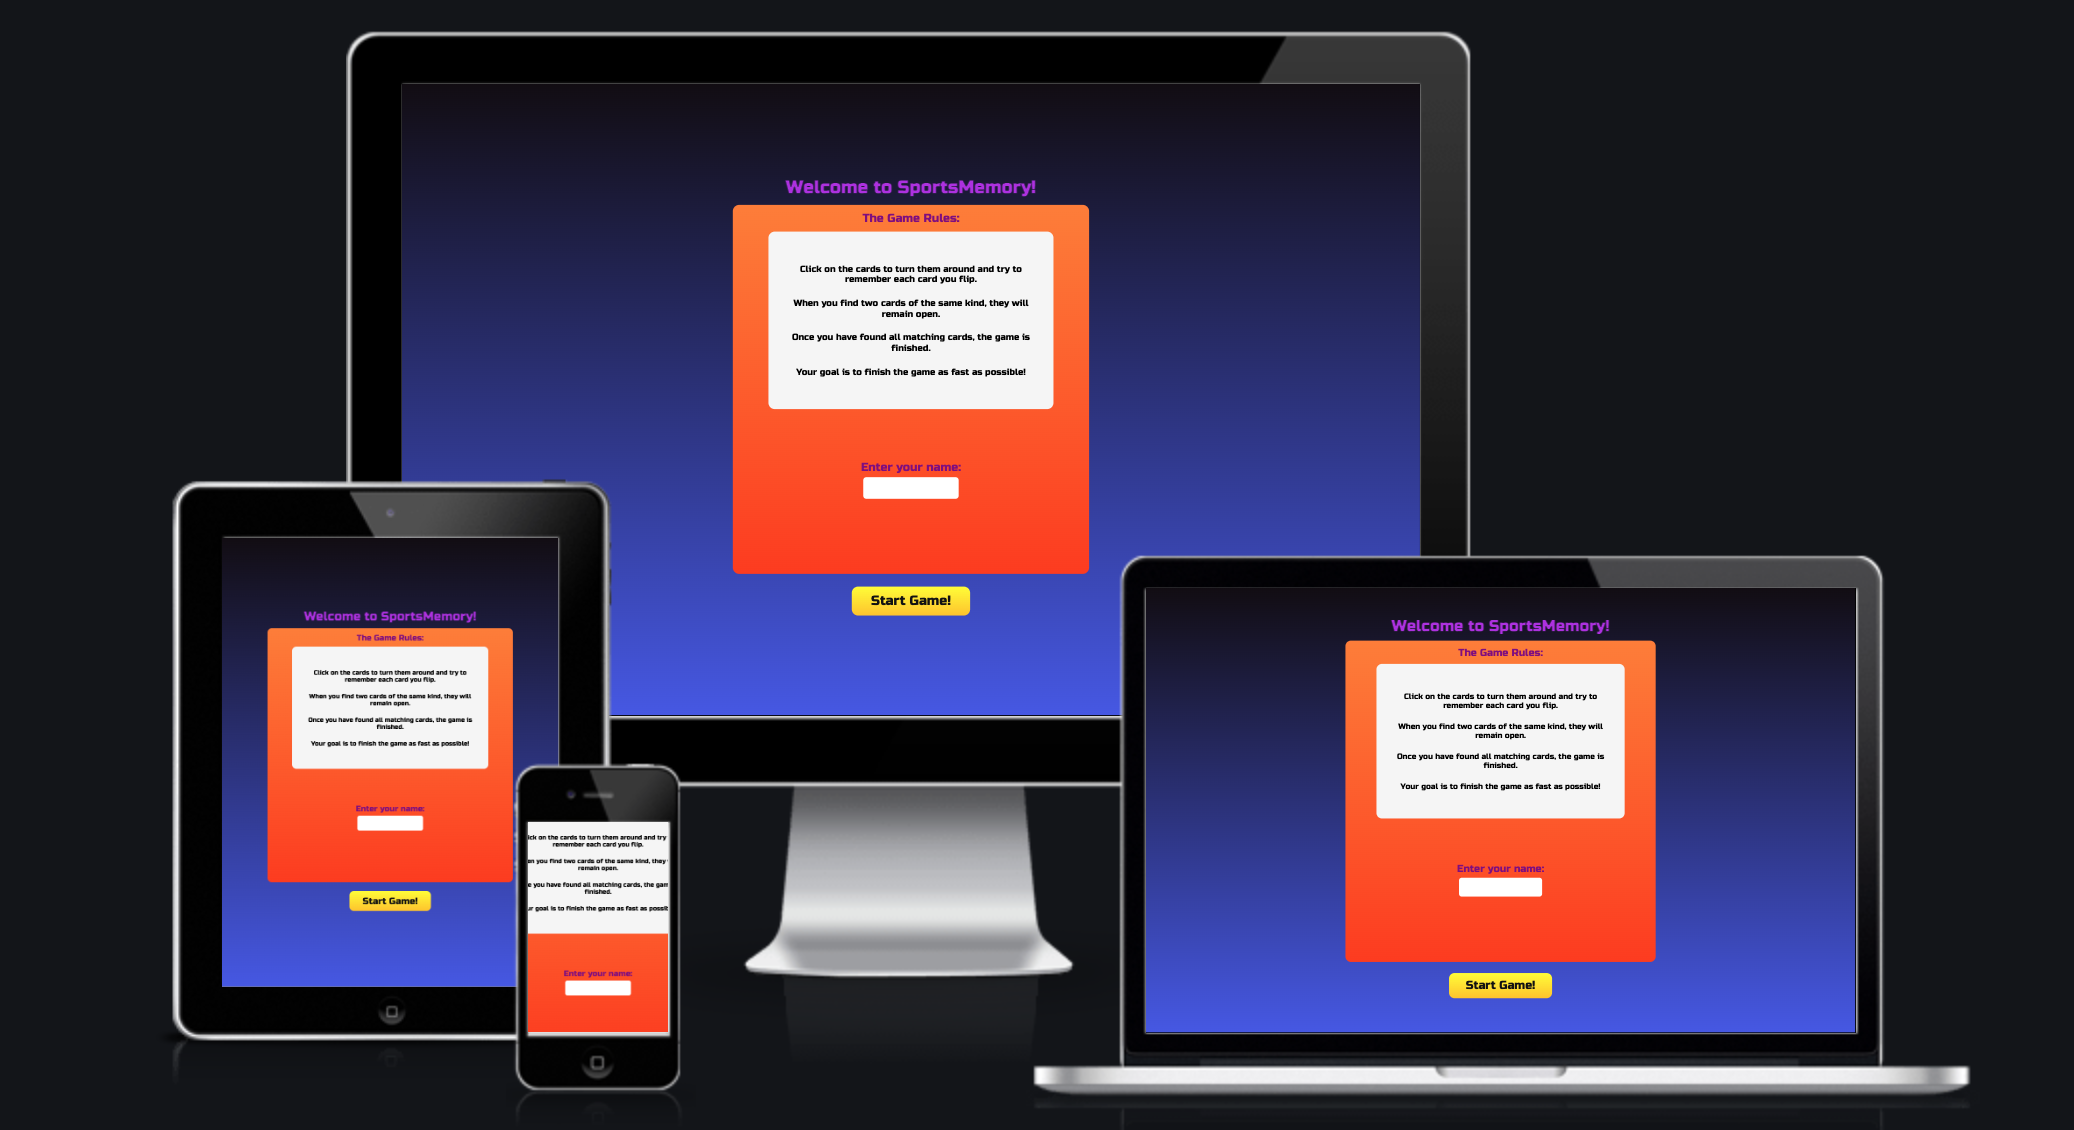
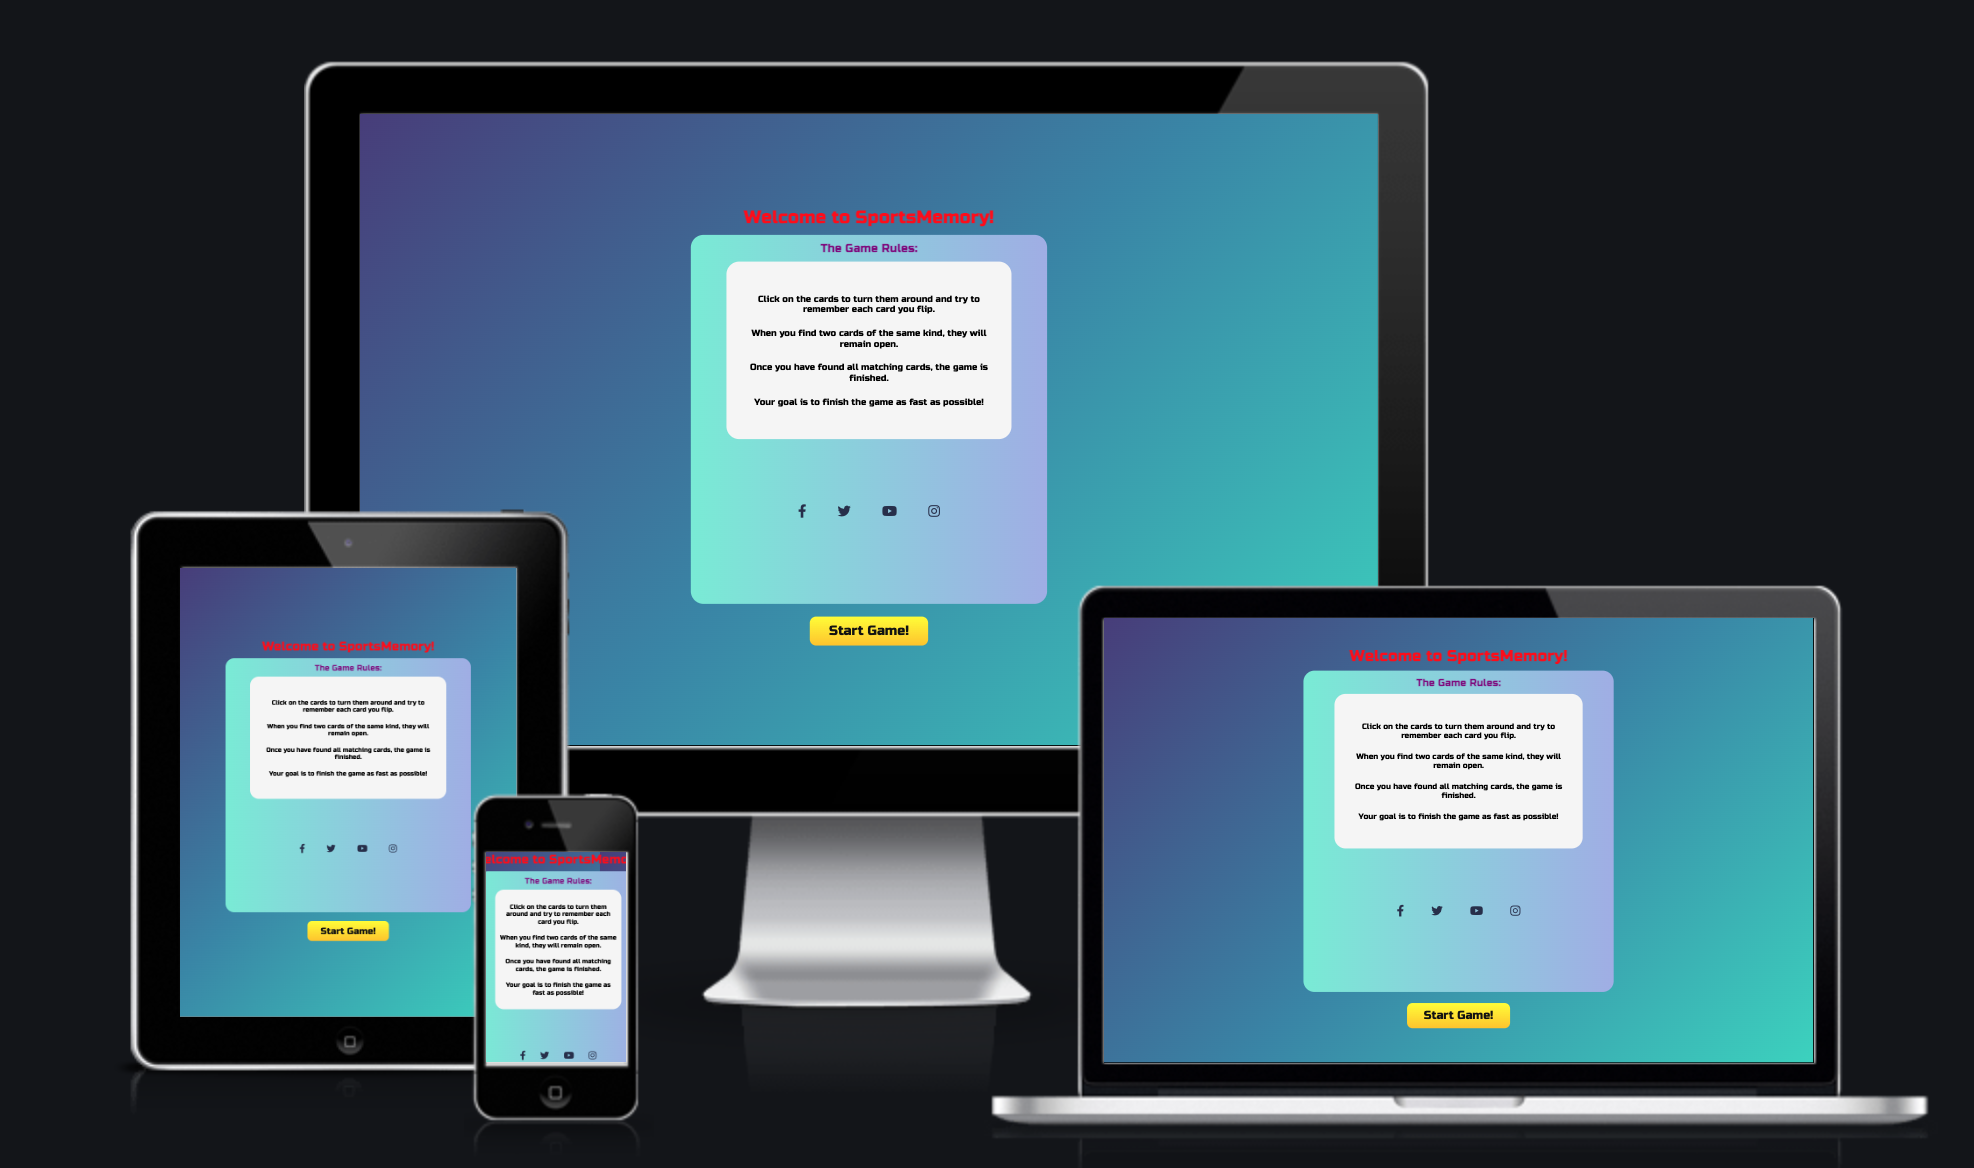
Update colors and images in README file

diff --git a/assets/css/style.css b/assets/css/style.css
@@ -20,7 +20,7 @@ body {
 header {
     margin: 0 auto;
     text-align: center;
-    color: red
+    color: rgb(255, 81, 0)
 }
 
 h2,
@@ -142,18 +142,16 @@ h3 {
     backface-visibility: hidden;
     border-radius: 7px;
     border: 1px solid white;
-
-
 }
 
 .memory-card-front {
     color: white;
-    background-image: linear-gradient(15deg, #13547a 0%, #80d0c7 100%);
+    background-color: rgb(95, 0, 249);
 }
 
 .memory-card-back {
     color: white;
-    background-color: rgb(19, 4, 72);
+    background-color: rgb(54, 42, 72);
     transform: rotateY(180deg);
 }
 
@@ -180,7 +178,7 @@ button:hover {
     color: rgb(18, 18, 18);
 }
 
-button:active{
+button:active {
     background: linear-gradient(rgb(255, 234, 0), rgb(255, 196, 0));
     color: rgb(18, 18, 18);
 }

diff --git a/index.html b/index.html
@@ -31,8 +31,9 @@
                 <p> Your goal is to finish the game as fast as possible! </p>
 
             </div>
-        
-            <div><!-- social media section -->
+
+            <div>
+                <!-- social media section -->
                 <ul id="social-media">
                     <li>
                         <a href="http://www.facebook.com" target="_blank" rel="noopener"

diff --git a/README.md b/README.md
@@ -28,7 +28,7 @@
 -   ### Design
     - Color Scheme  
         For the color scheme I decided to use a gradient color to create more depth and a more dynamic overall look to the game.  
-        The colors I choose are gradients of deep blue and orange-red.
+        The colors I chose are gradients of blue and green.
     
 
       ![Pallette](assets/images/pallette.png)
@@ -56,19 +56,21 @@
     -   The header welcomes the player when entering the game page.  
     -   It also swith the message as you move along the different screens of the game.
 
-![Header](assets/images/header.png)
+![Header](assets/images/header1.png)
 ![Header](assets/images/header2.png)
 ![Header](assets/images/header3.png)
 
 - ### The Start Screen 
     -   The start screen explains in a concise and clear manner the rules of the game to the user.
     -   It makes it easy for the user to get started and the start button is easily accessible and visible.
+    -   The start also shows all the various social media links to connect with. 
 
 ![Start Screen](assets/images/start_screen.png)
 
 - ### The Game Screen
     - The Game Screen arrange all the cards with the back facing towards the user.
     - When the user clicks on a card it shows it's icon and that way the user can try to remember each card and match the cards to eachother.
+    - The Game Screen also shows the timer which counts the seconds it takes the user to finish the game.
 
 ![The Game Screen](assets/images/game_screen.png)
 
@@ -81,11 +83,6 @@
     - Also includes the buttons to start over or quitting the game.
 
 ![The End Screen](assets/images/finish_screen.png)
-
-- ### The Footer
-    - The Footer includes all the social networks links
-
-![The Footer](assets/images/.png)
 
 
 ## Technologies Used
@@ -101,7 +98,7 @@
  - [Font Awesome:](https://fontawesome.com/)
     - Is used for the social media icons in the footer on all pages. 
  - [Git](https://git-scm.com/)
-    - Git was used for version control through the Gitpod terminal to commit and push to GitHub
+    - Git was used for version control through the Gitpod terminal to commit and push to GitHub.
  - [GitHub:](https://github.com/)
      - Was used for all storing and backup of the code pertaining to the project. 
 
